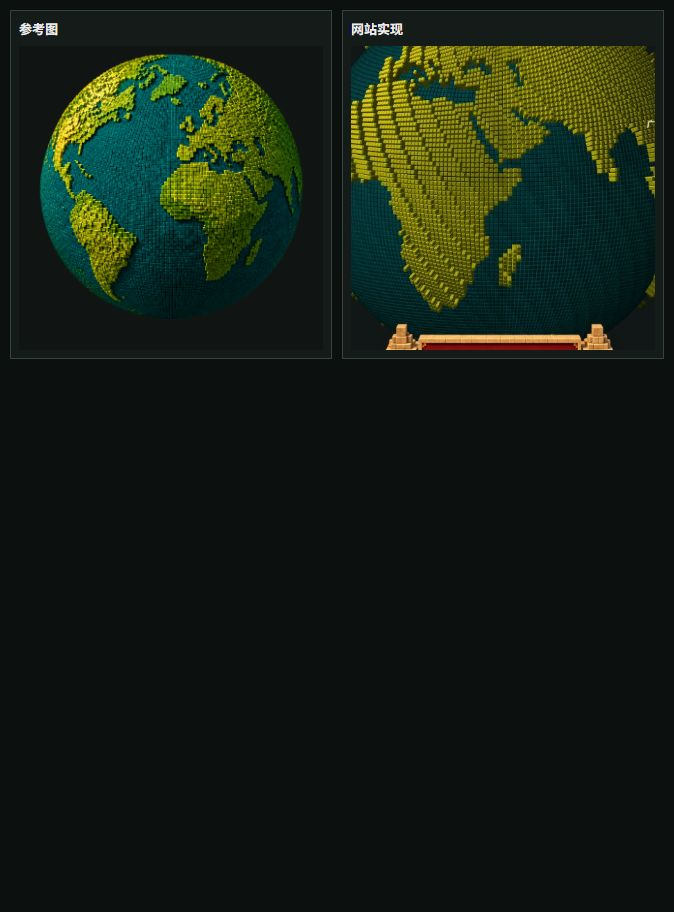
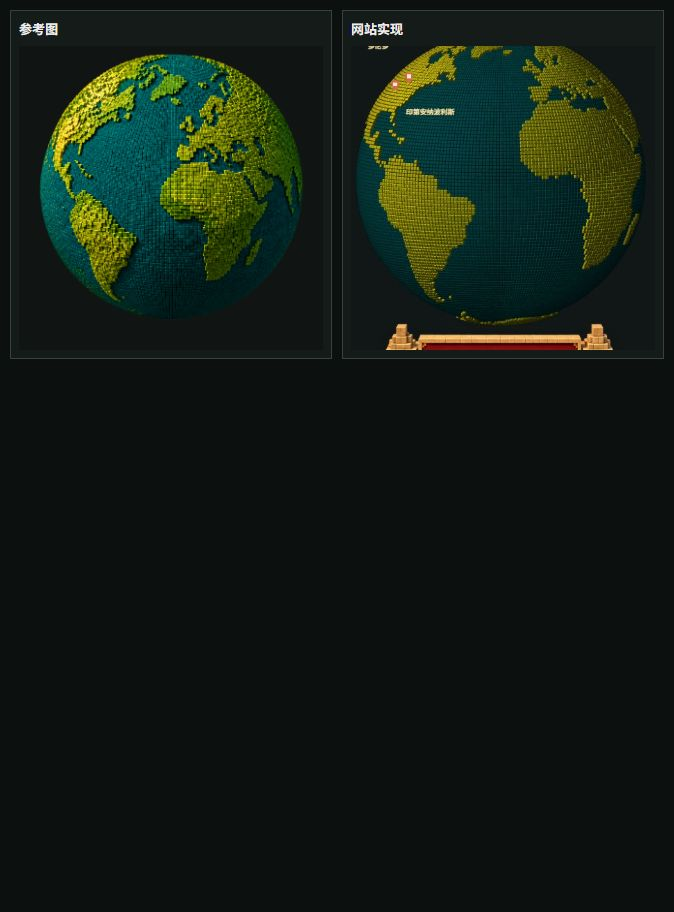
fix: soften voxel globe terraces

Changed region(s): [[0.4985, 0.0307, 0.997, 0.3684], [0.9659, 0.307, 0.997, 0.3377]]

diff --git a/qa-webgl-comparison.html b/qa-webgl-comparison.html
@@ -11,7 +11,7 @@
 <body>
   <main class="grid">
     <section class="panel"><h2>参考图</h2><div class="image"><img src="assets/earth-model-v2.png" alt="参考体素地球"></div></section>
-    <section class="panel"><h2>网站实现</h2><div class="image implementation"><img src="implementation-webgl-voxel-674x912.png" alt="网站体素地球实现"></div></section>
+    <section class="panel"><h2>网站实现</h2><div class="image implementation"><img src="implementation-step-fix-default-674x912.png" alt="网站体素地球实现"></div></section>
   </main>
 </body>
 </html>

diff --git a/design-qa.md b/design-qa.md
@@ -5,7 +5,7 @@
 - 视觉真值：`assets/earth-model-v2.png`
   - 像素尺寸：1254 × 1254
   - 内容：用户选定的高细节三维体素地球
-- 页面实现：`implementation-webgl-voxel-674x912.png`
+- 页面实现：`implementation-step-fix-default-674x912.png`
   - 内置浏览器 CSS 视口与截图像素：674 × 912
   - 设备像素比：1
 - 同屏比较：`qa-webgl-comparison.png`
@@ -72,6 +72,13 @@
 - 证据：`qa-webgl-comparison.png`。
 - 先前 P1/P2 已消除：实现具有可辨认的独立立方块、连续无错误孔洞的大陆、与参考接近的体素密度、左上暖光和右侧深绿阴影。
 - [P3] 参考图是风格化生成地图，部分岛屿和逐格高度具有艺术随机性；实现使用真实 GeoJSON，因此个别海岸小块不会逐格完全相同。这是数据真实性带来的可接受差异，不影响选定视觉方向。
+
+### 第四轮：斜视阶梯修正
+
+- 用户反馈证据：`codex-clipboard-3b627cb5-14da-49f8-967b-2616baeb7817.png` 显示亚洲斜视角出现连续平行阶梯。
+- 根因：陆地块高约为单格高度的 2–4 倍；旧的线性取模变化还会形成规则斜向条纹；球面切线方向在斜视角下进一步放大侧面层次。
+- 修复：陆地块高降至约一个体素（0.024），变化幅度降至 0.05，改用稳定二维散列；海洋块高降至 0.011。传送门、视角交互、密度和布局未改动。
+- 修复后证据：`implementation-step-fix-default-674x912.png` 与 `qa-webgl-comparison.png`；大陆表面保持体素质感，连续台阶被压回单层侧面。
 
 ## 最终结果
 
